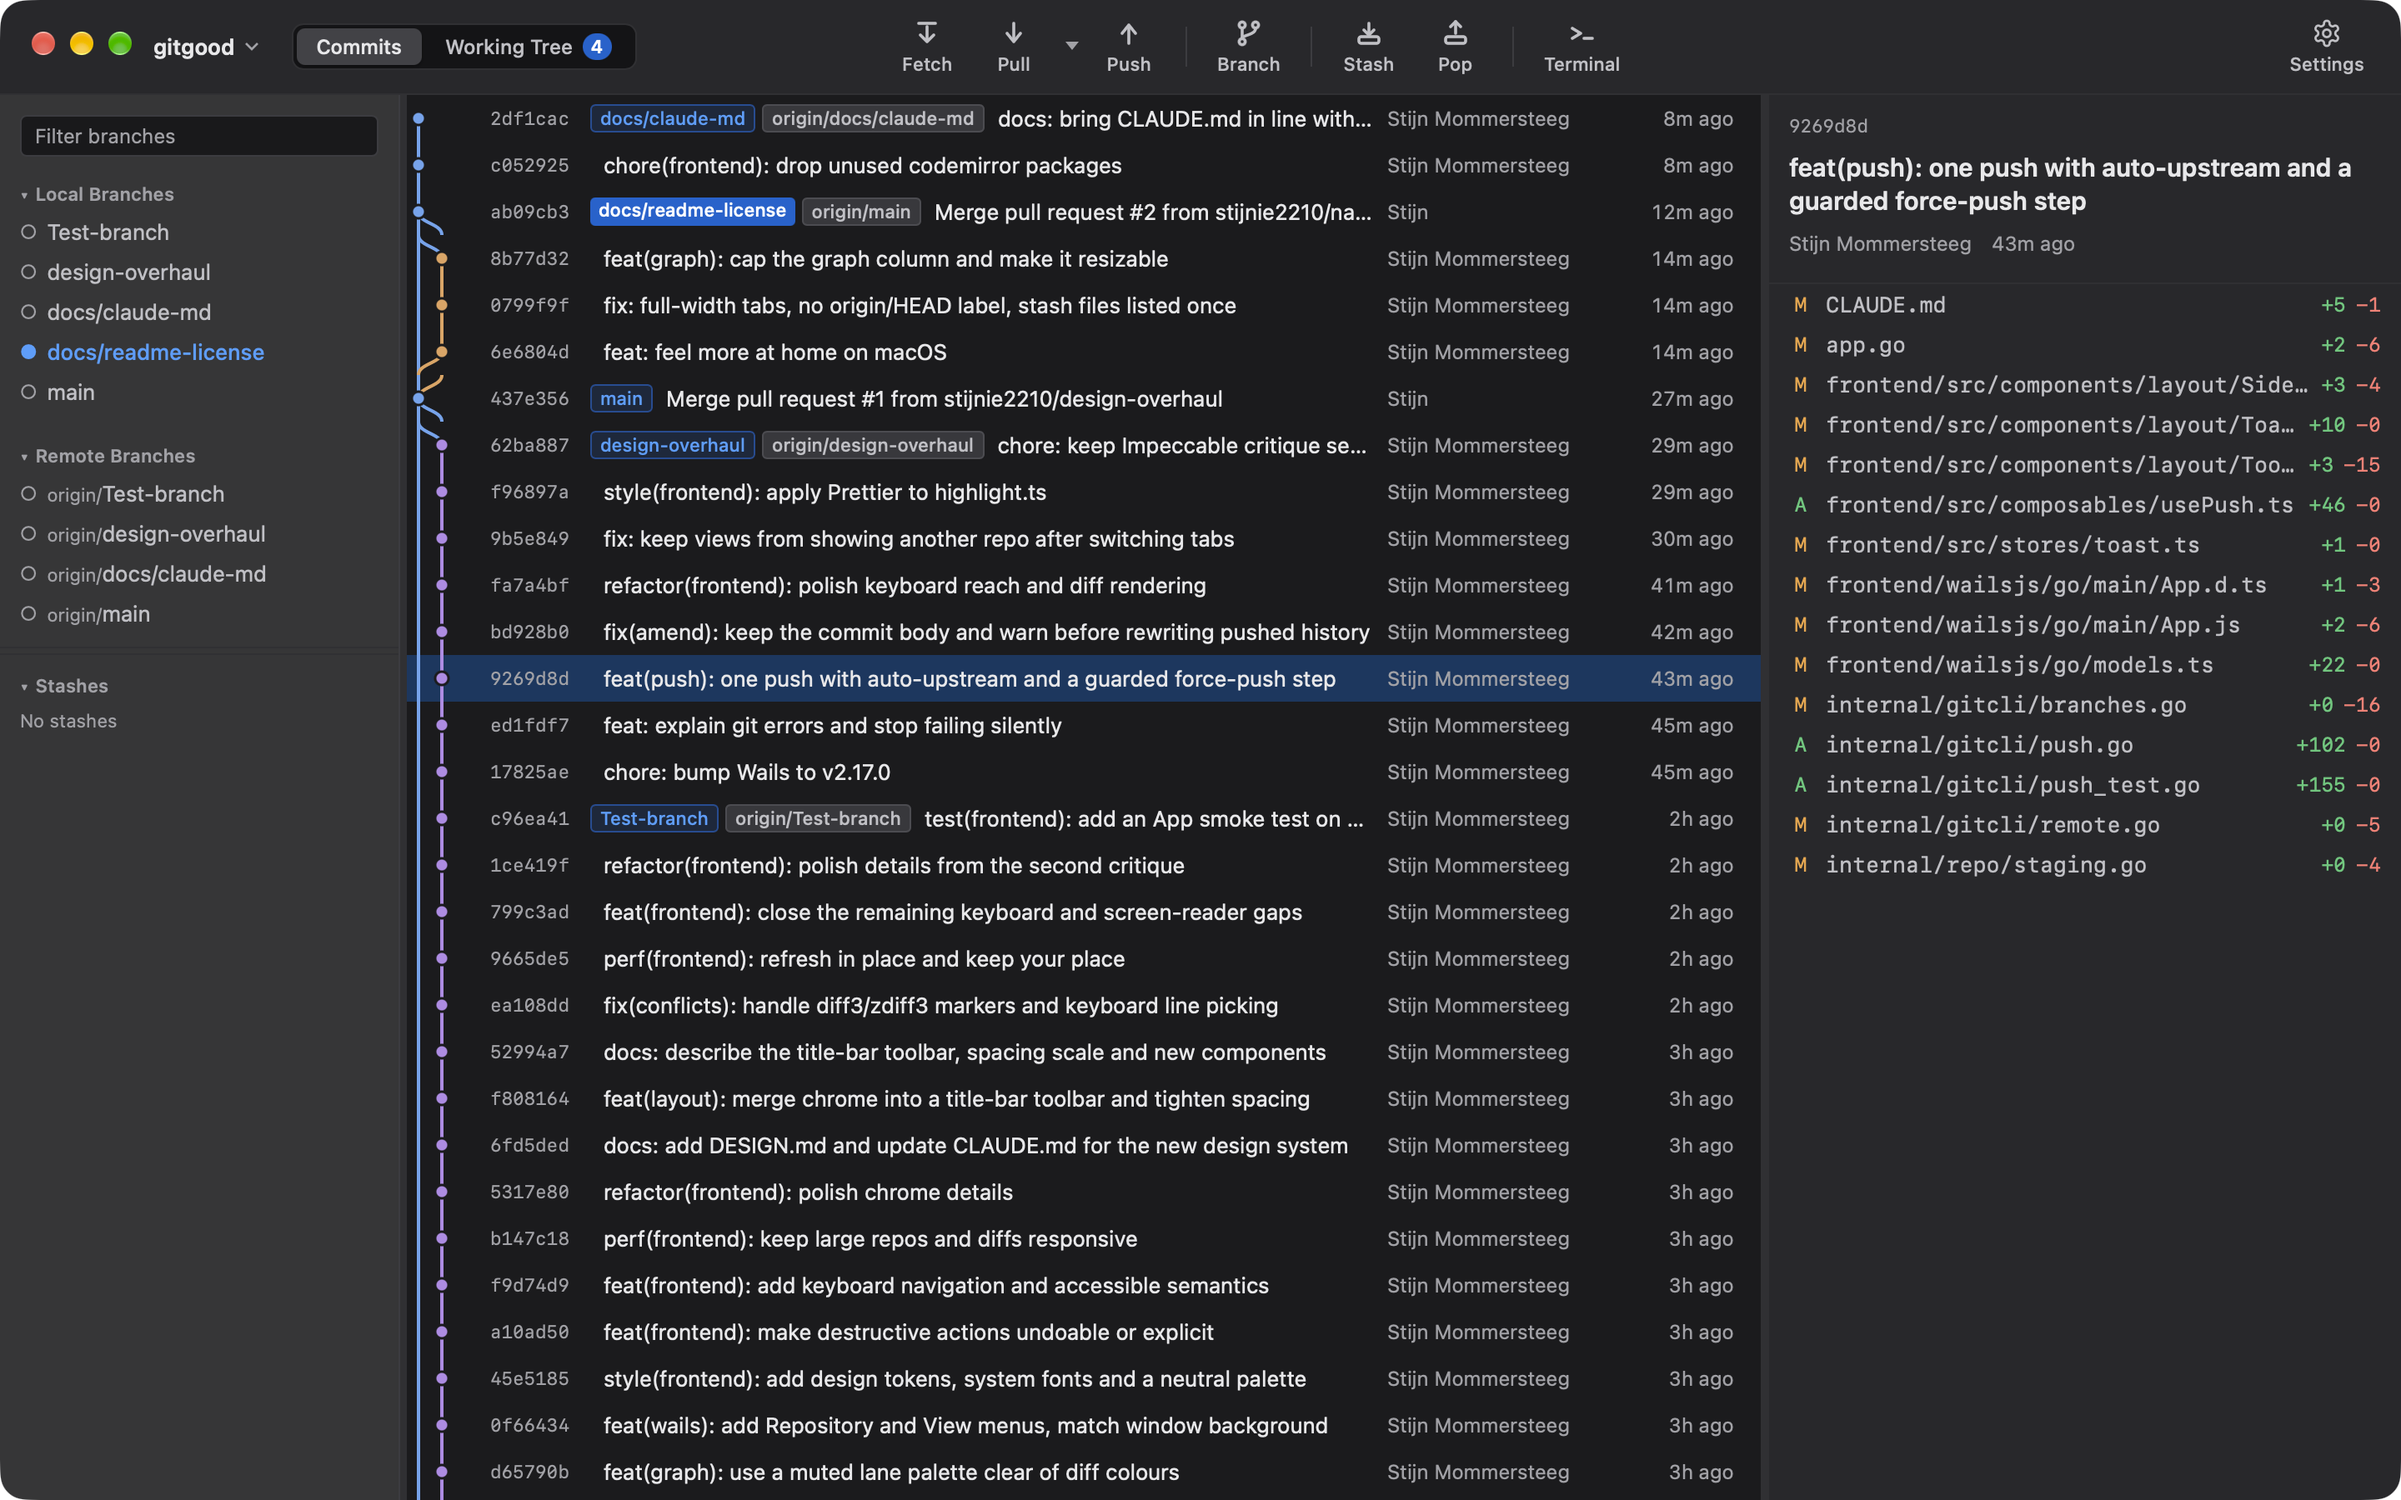
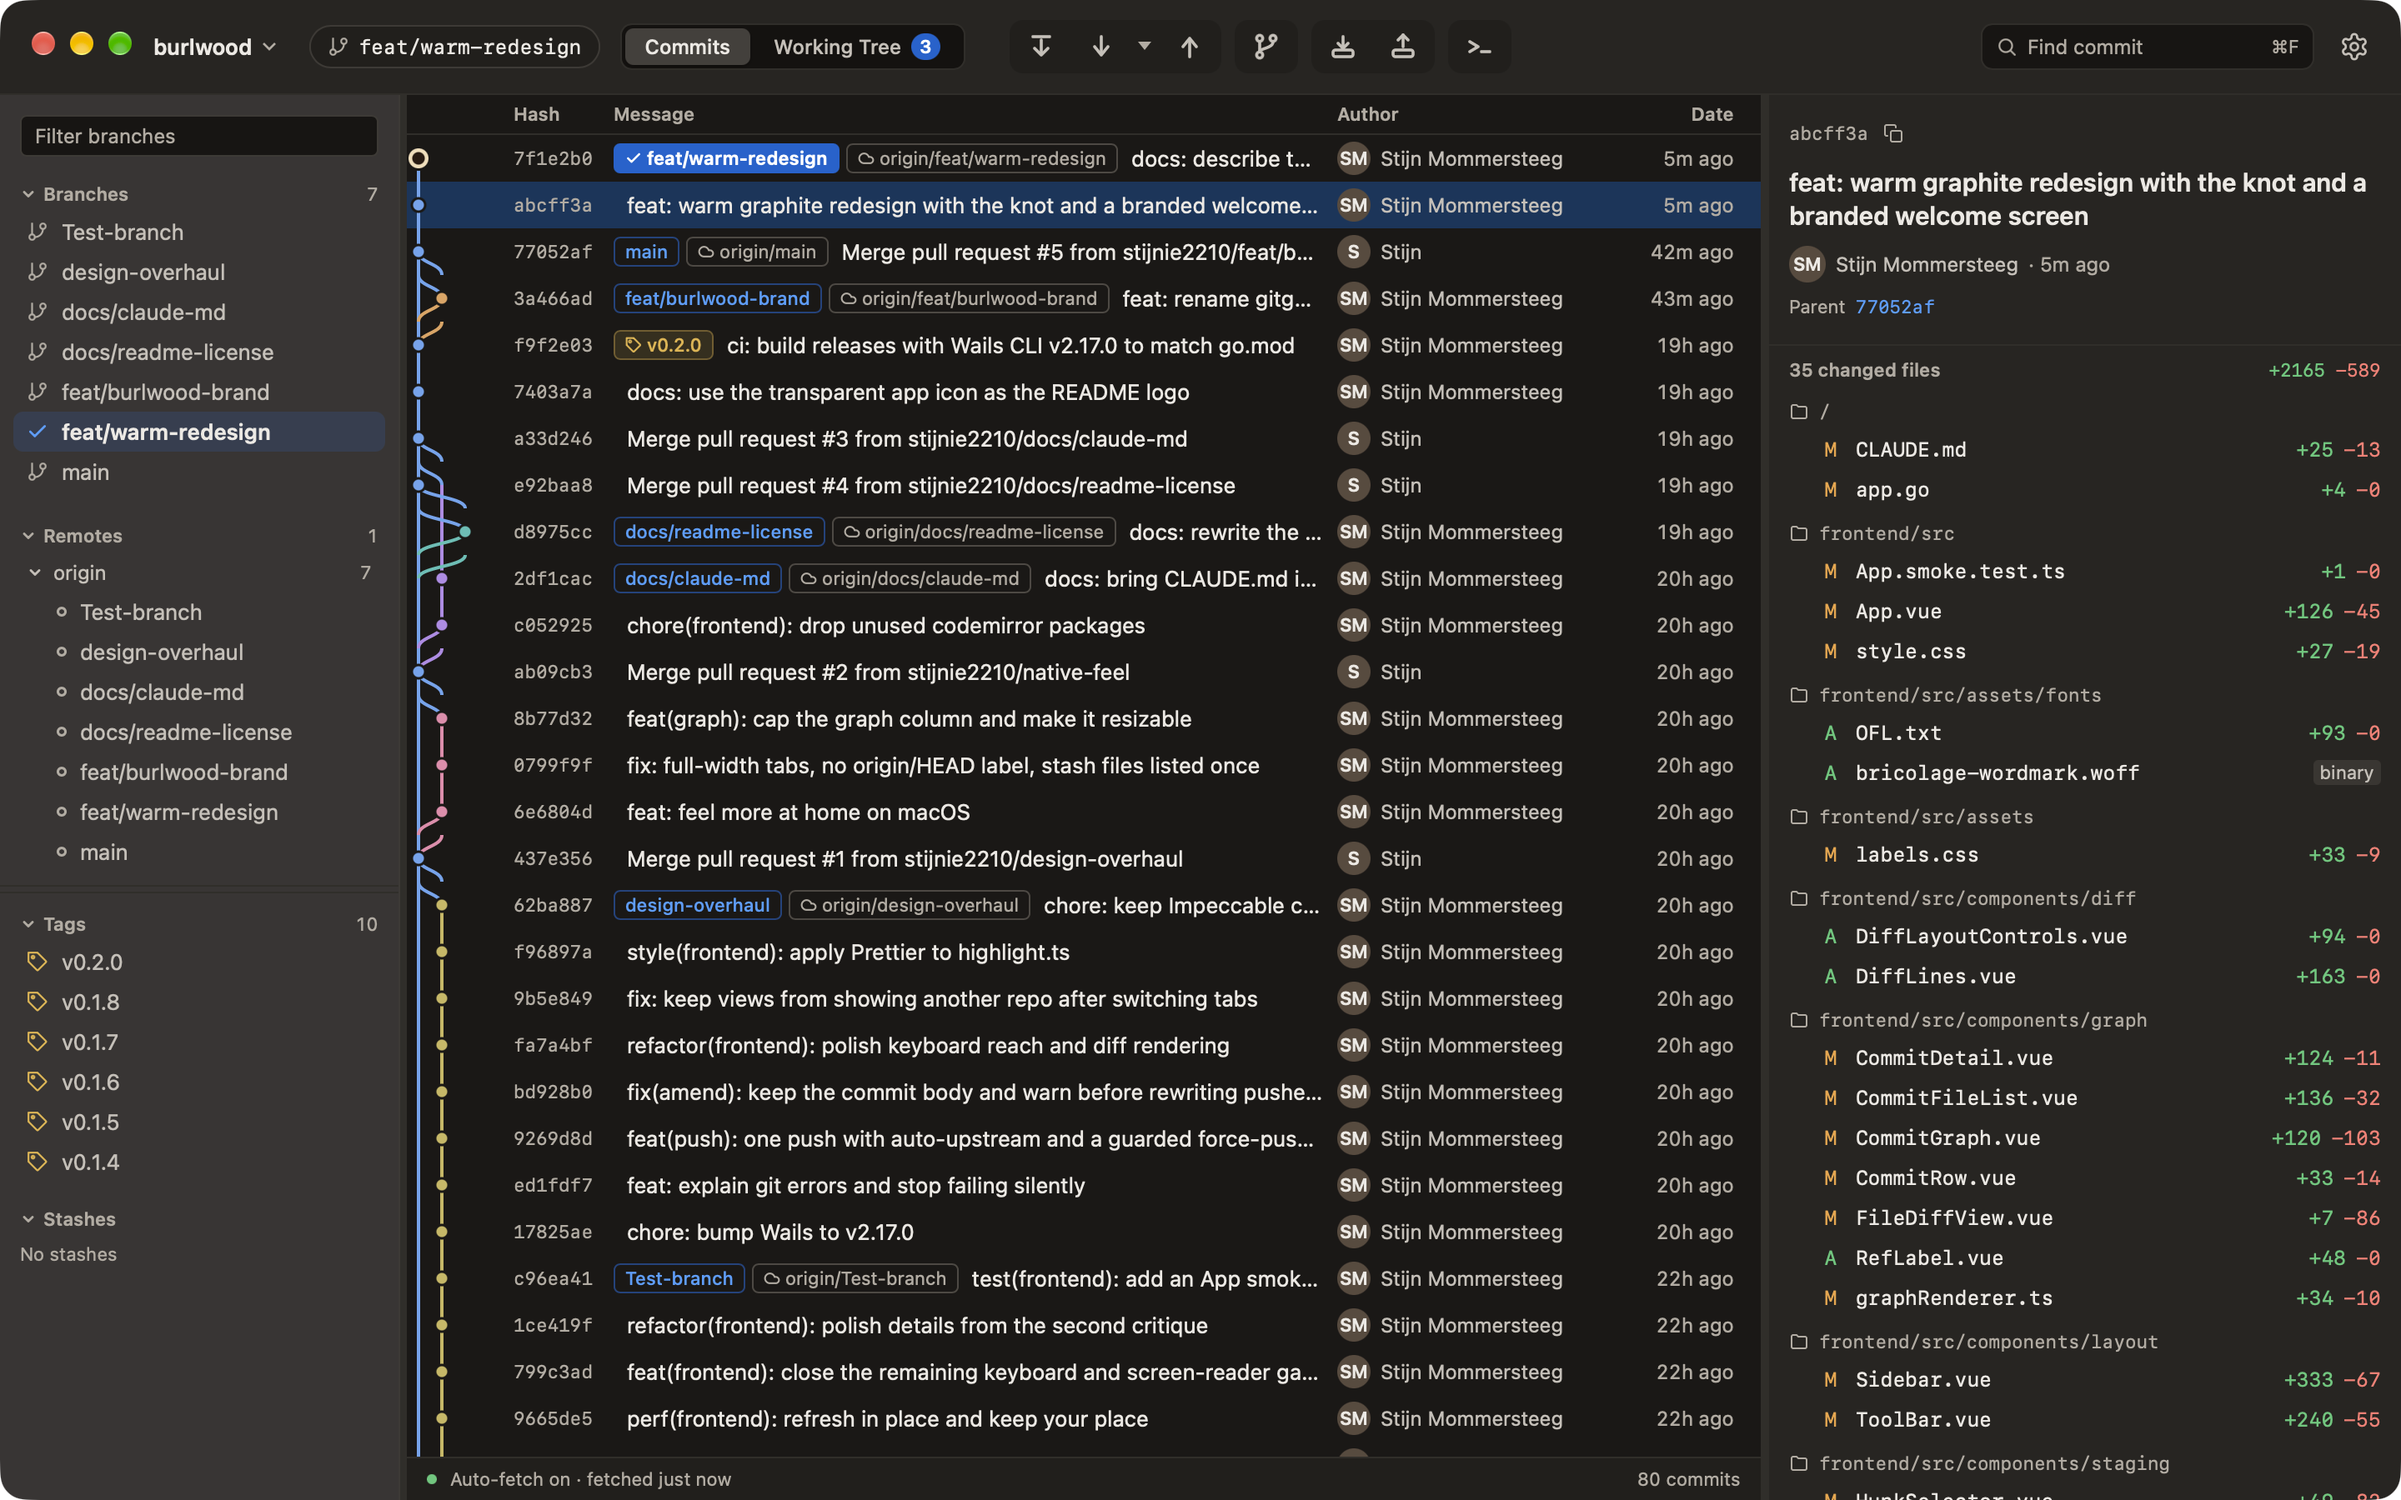
docs: retake the README screenshots for the redesign
Both screenshots show the warm redesign on this repository: the commit
graph with the knot on the checked-out commit, grouped files and tags,
and the working tree with wrapped lines and changed words highlighted.
The feature list now mentions folder grouping, the tag list and
unified or side-by-side diffs.

diff --git a/README.md b/README.md
@@ -12,9 +12,9 @@ Burlwood (formerly gitgood) is a hobby project and still early (v0.1.x). Expect 
 
 ## Features
 
-- **Commit graph:** branch lanes for every ref and stash, scrolls smoothly through thousands of commits, find a commit with ⌘F
-- **Commit actions:** checkout, create a branch or tag at any commit, move or push tags, revert, and soft, mixed or hard reset (a hard reset can be undone)
-- **Working tree:** stage and unstage whole files or single hunks, discard with undo, image preview, syntax-highlighted diffs
+- **Commit graph:** branch lanes for every ref and stash, scrolls smoothly through thousands of commits, find a commit with ⌘F; a commit's changed files are grouped by folder
+- **Commit actions:** checkout, create a branch or tag at any commit, move or push tags (the sidebar lists them all), revert, and soft, mixed or hard reset (a hard reset can be undone)
+- **Working tree:** stage and unstage whole files or single hunks, discard with undo, image preview, syntax-highlighted diffs, unified or side by side, with the changed words highlighted
 - **Committing:** commit or amend, with a warning before you rewrite commits that are already pushed
 - **Branches:** switch, rename, delete, push and rebase from the sidebar; switching carries your uncommitted changes along and stashes them only when git refuses
 - **Stashes:** create, apply, pop, rename and drop
